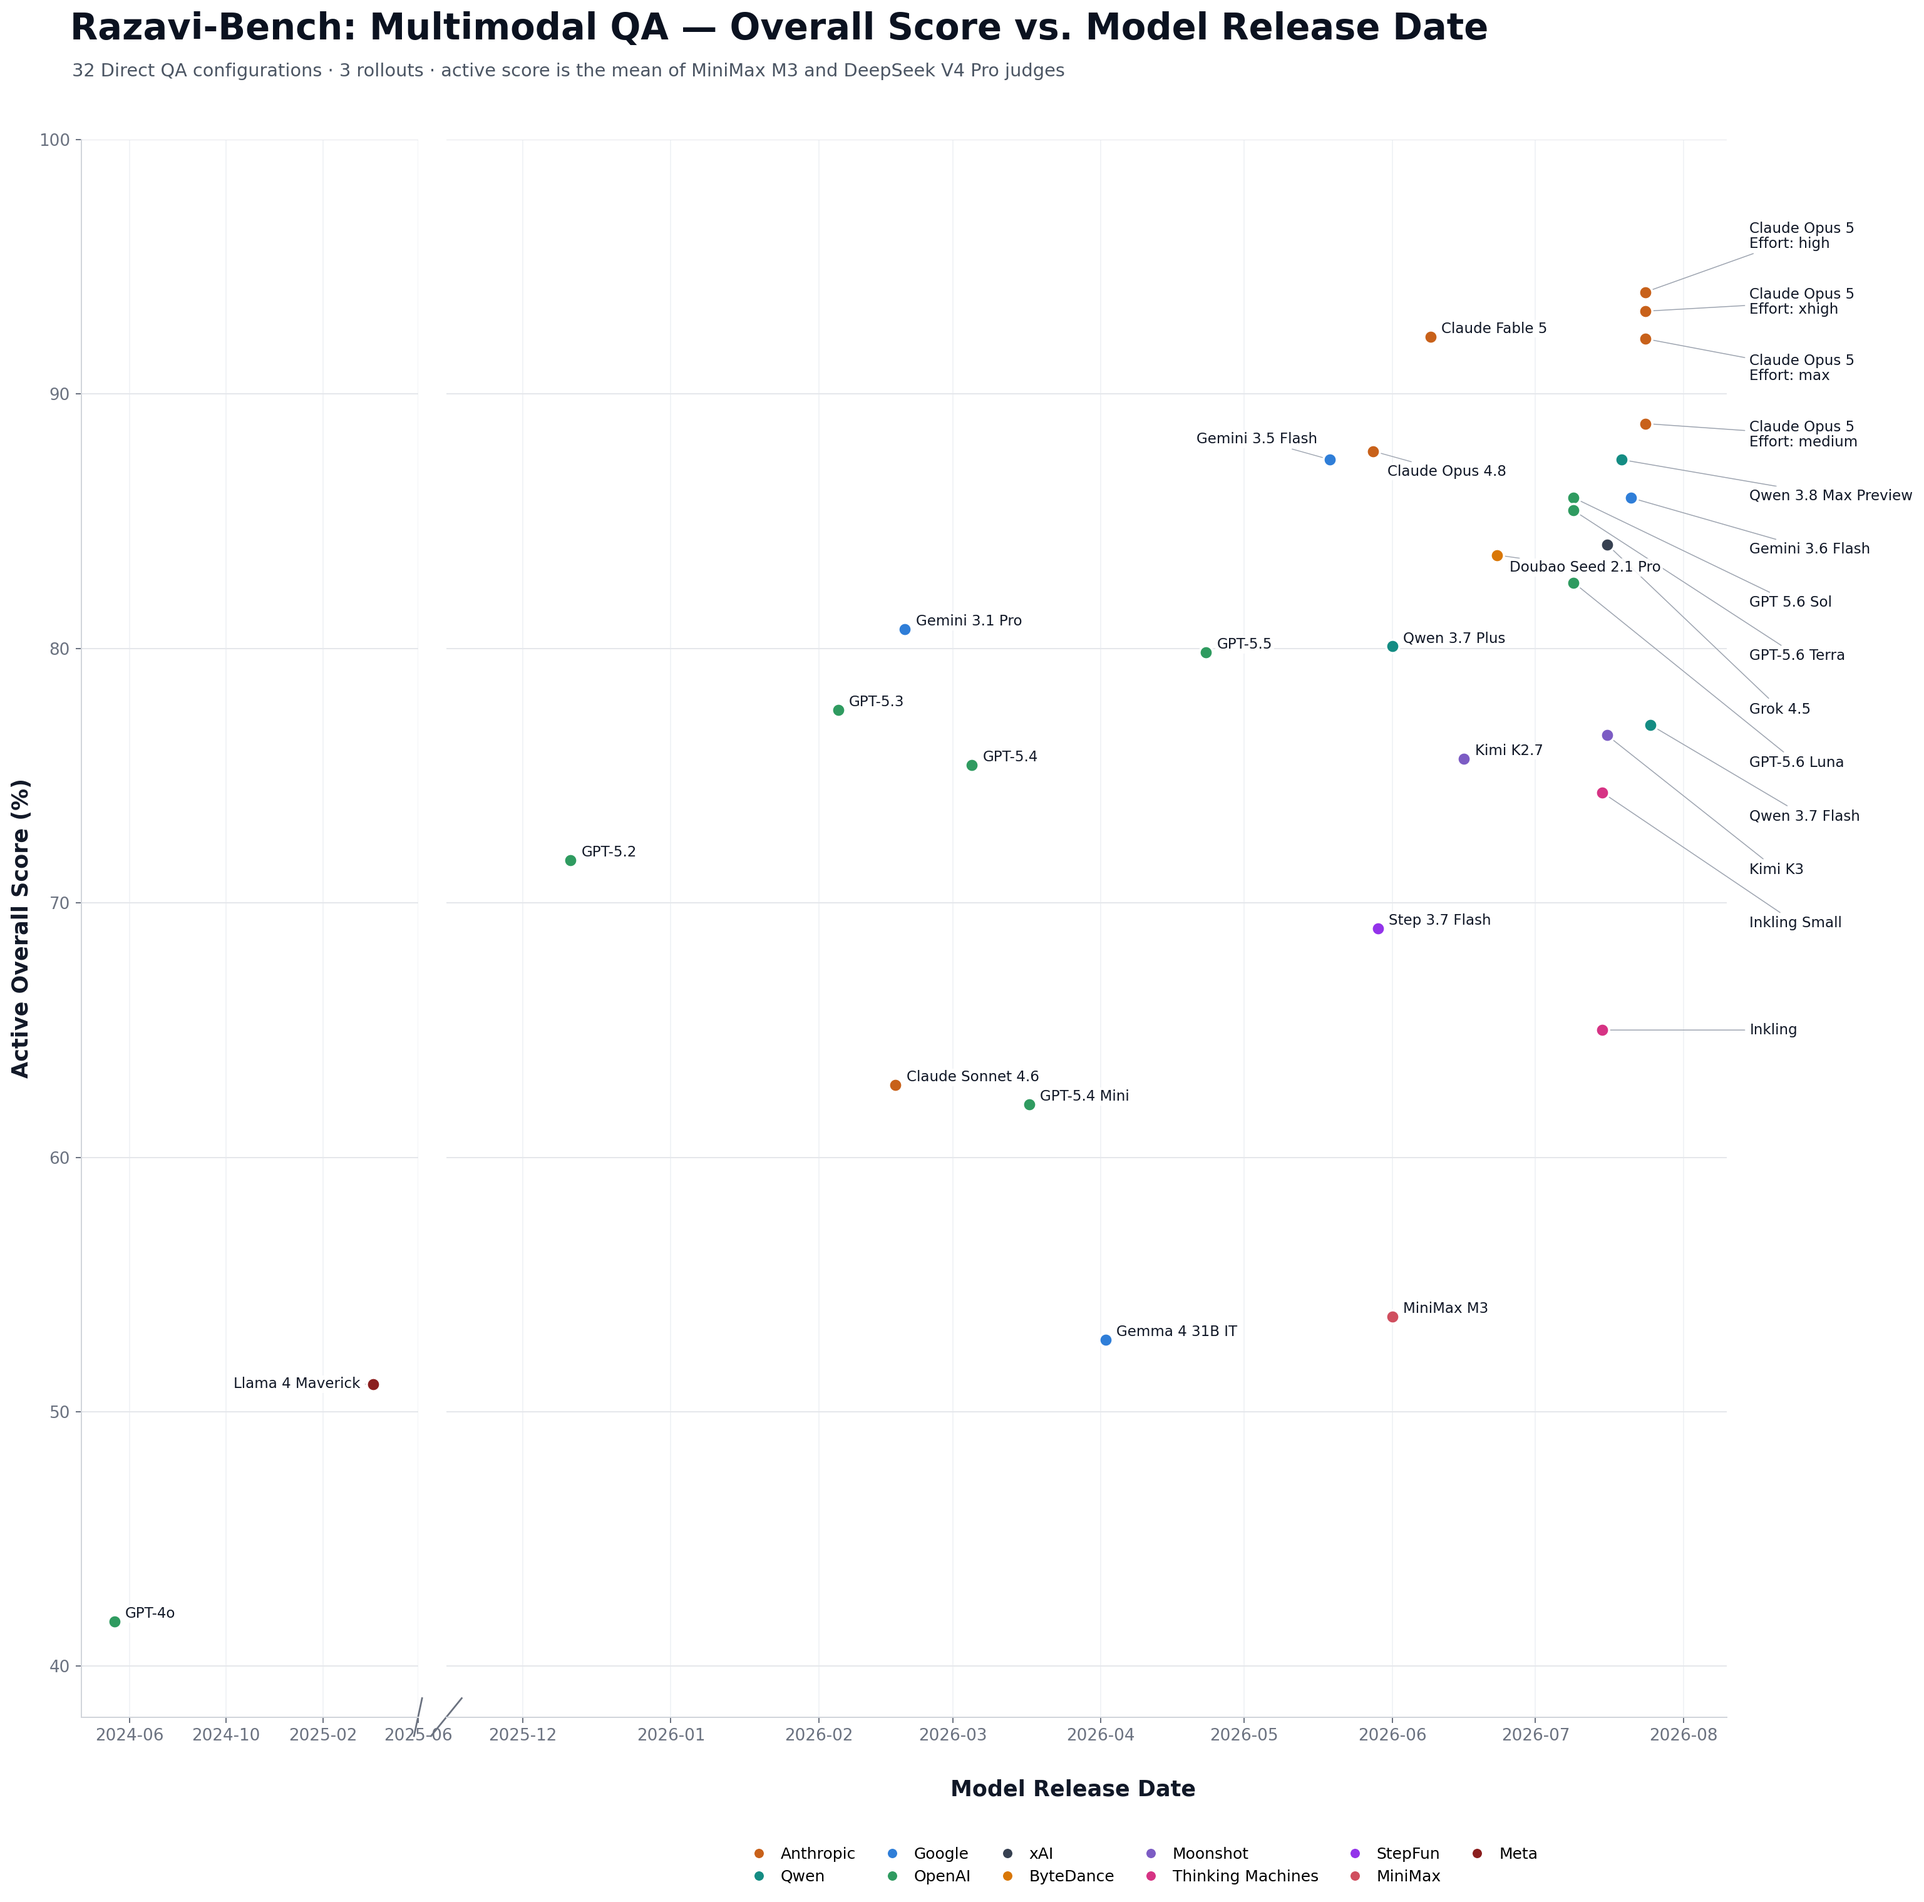
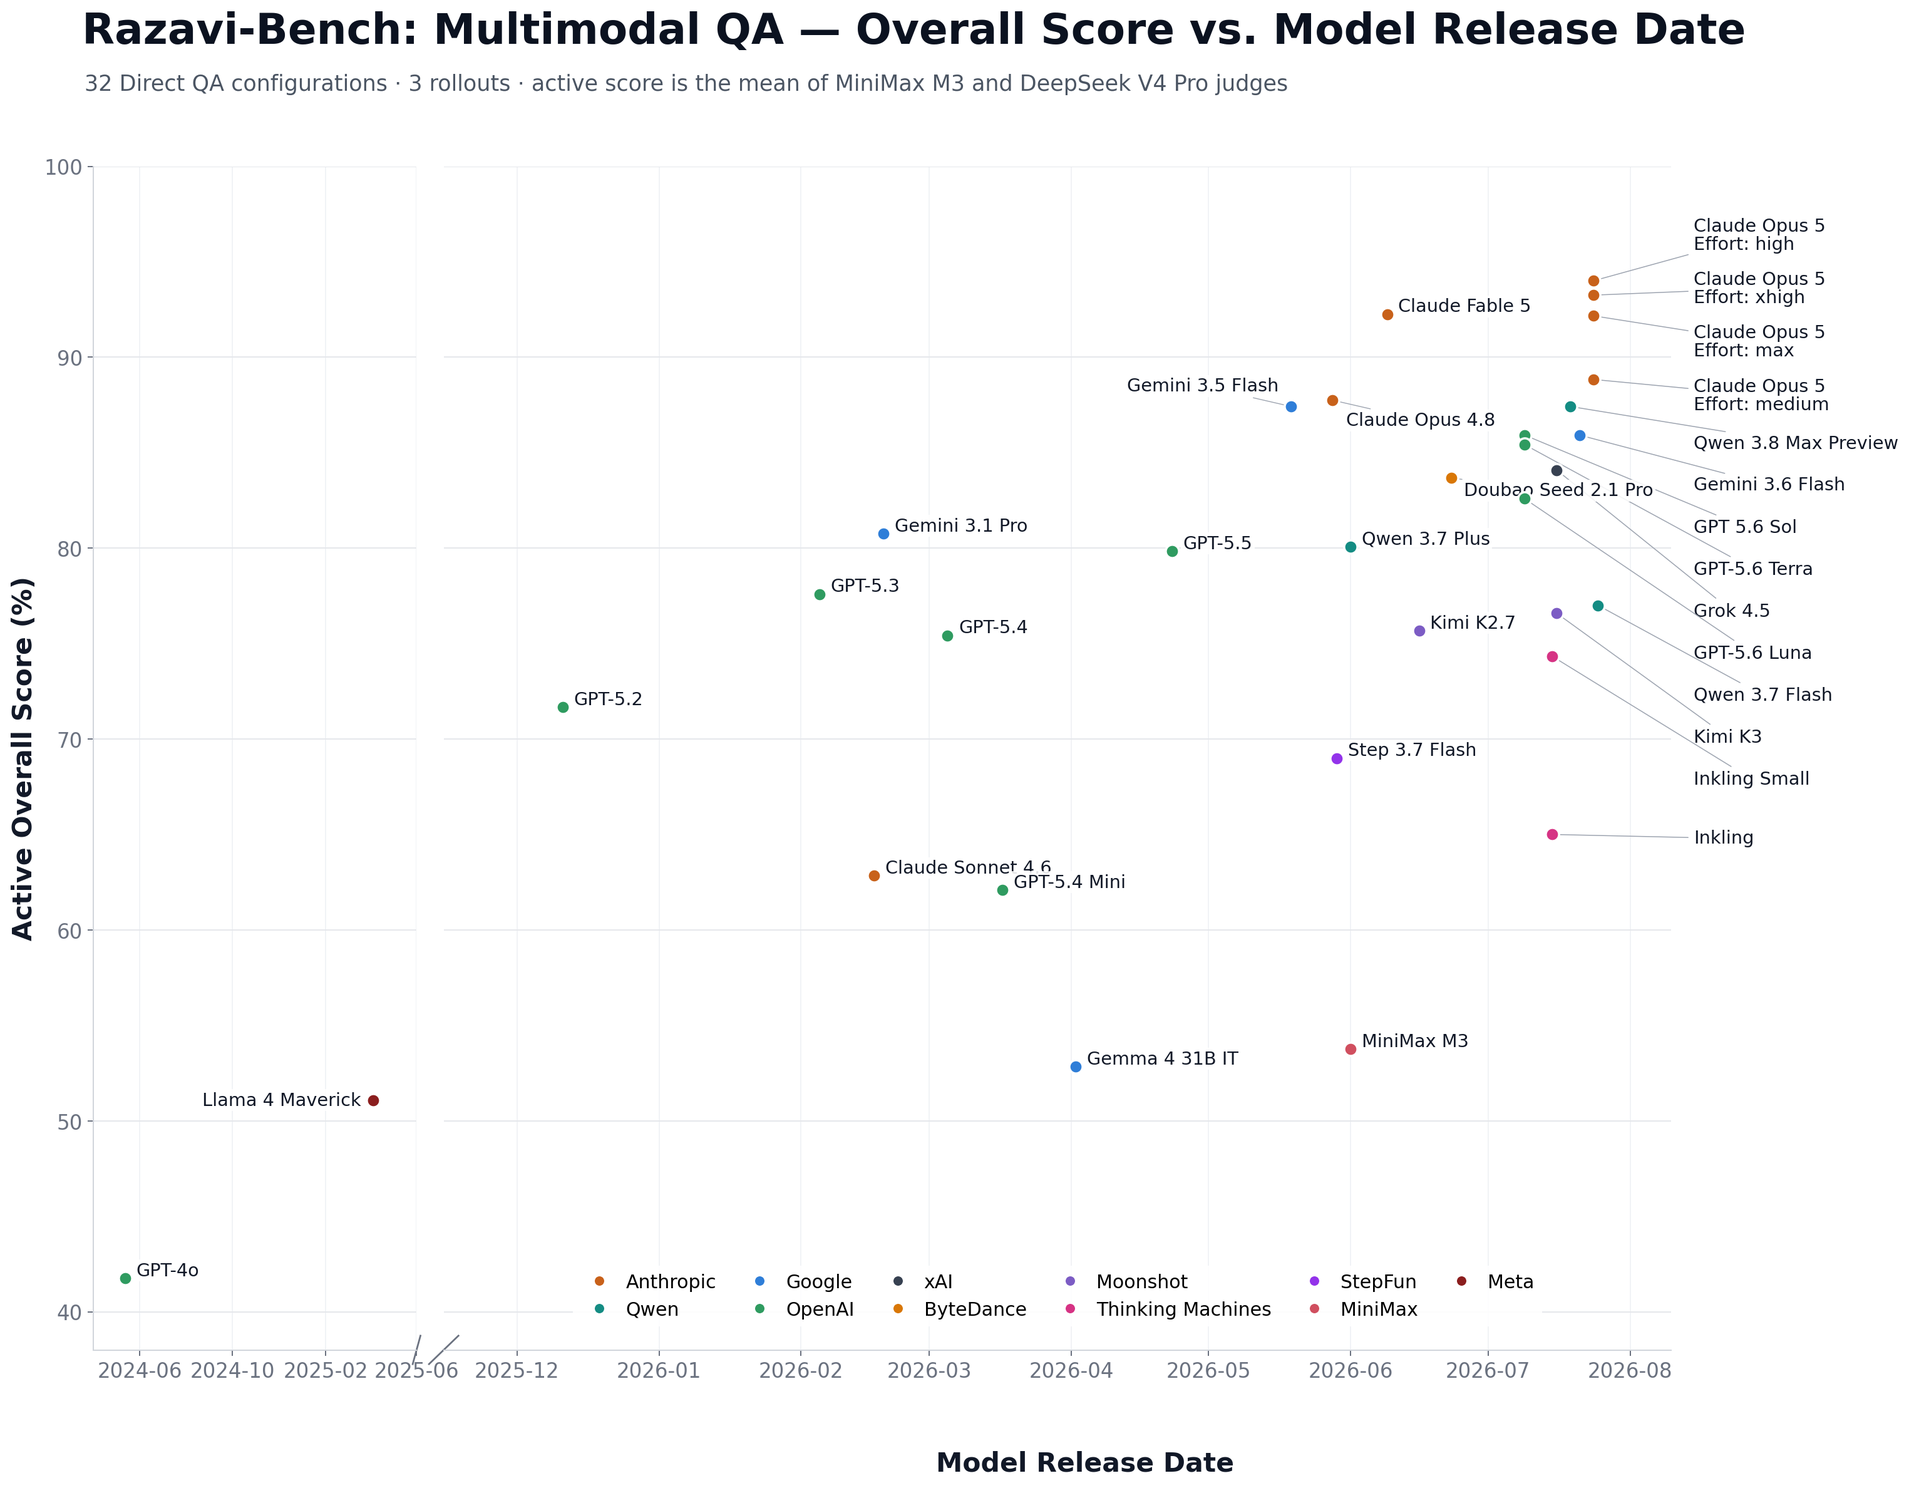
Refine release timeline proportions

diff --git a/tools/plot_model_release_timeline.py b/tools/plot_model_release_timeline.py
@@ -41,20 +41,20 @@ LABEL_OFFSETS = {
 }
 
 RECENT_LABEL_Y = {
-    "claude_opus_5_high": 96.2,
+    "claude_opus_5_high": 96.4,
     "claude_opus_5_xhigh": 93.6,
-    "claude_opus_5": 91.0,
-    "claude_opus_5_medium": 88.4,
-    "qwen_38": 86.0,
-    "gemini_36_flash": 83.9,
-    "gpt_56": 81.8,
-    "gpt_56_terra": 79.7,
-    "grok_45": 77.6,
-    "gpt_56_luna": 75.5,
-    "qwen_37_flash": 73.4,
-    "kimi_k3": 71.3,
-    "inkling_small": 69.2,
-    "inkling": 65.0,
+    "claude_opus_5": 90.8,
+    "claude_opus_5_medium": 88.0,
+    "qwen_38": 85.5,
+    "gemini_36_flash": 83.3,
+    "gpt_56": 81.1,
+    "gpt_56_terra": 78.9,
+    "grok_45": 76.7,
+    "gpt_56_luna": 74.5,
+    "qwen_37_flash": 72.3,
+    "kimi_k3": 70.1,
+    "inkling_small": 67.9,
+    "inkling": 64.8,
 }
 
 
@@ -118,7 +118,7 @@ def annotate(ax: plt.Axes, row: dict[str, object]) -> None:
             textcoords=ax.get_yaxis_transform(),
             ha="left",
             va="center",
-            fontsize=9.2,
+            fontsize=11.5,
             color="#111827",
             linespacing=1.05,
             arrowprops={"arrowstyle": "-", "color": "#9CA3AF", "lw": 0.6},
@@ -137,7 +137,7 @@ def annotate(ax: plt.Axes, row: dict[str, object]) -> None:
         textcoords="offset points",
         ha=horizontal_alignment,
         va="center",
-        fontsize=9.2,
+        fontsize=11.5,
         color="#111827",
         linespacing=1.05,
         arrowprops={"arrowstyle": "-", "color": "#9CA3AF", "lw": 0.55},
@@ -153,7 +153,7 @@ def style_axis(ax: plt.Axes) -> None:
     ax.set_yticks(range(40, 101, 10))
     ax.grid(axis="y", color="#E5E7EB", linewidth=0.8)
     ax.grid(axis="x", color="#F0F2F5", linewidth=0.7)
-    ax.tick_params(colors="#6B7280", labelsize=10.5)
+    ax.tick_params(colors="#6B7280", labelsize=13)
     ax.spines["top"].set_visible(False)
     ax.spines["right"].set_visible(False)
     ax.spines["left"].set_color("#D1D5DB")
@@ -171,7 +171,7 @@ def plot(rows: list[dict[str, object]], output: Path) -> None:
     figure, (old_ax, recent_ax) = plt.subplots(
         1,
         2,
-        figsize=(20, 17.5),
+        figsize=(20, 15),
         dpi=180,
         sharey=True,
         gridspec_kw={"width_ratios": [1.25, 4.75], "wspace": 0.035},
@@ -199,22 +199,22 @@ def plot(rows: list[dict[str, object]], output: Path) -> None:
         )
         annotate(axis, row)
 
-    old_ax.set_ylabel("Active Overall Score (%)", fontsize=14, fontweight="bold", color="#111827")
-    figure.supxlabel("Model Release Date", y=0.068, fontsize=14, fontweight="bold", color="#111827")
+    old_ax.set_ylabel("Active Overall Score (%)", fontsize=17, fontweight="bold", color="#111827")
+    figure.supxlabel("Model Release Date", y=0.105, fontsize=17, fontweight="bold", color="#111827")
     figure.suptitle(
         "Razavi-Bench: Multimodal QA — Overall Score vs. Model Release Date",
         x=0.055,
-        y=0.975,
+        y=0.972,
         ha="left",
-        fontsize=23,
+        fontsize=27,
         fontweight="bold",
         color="#0B1220",
     )
     figure.text(
         0.056,
-        0.942,
+        0.925,
         "32 Direct QA configurations · 3 rollouts · active score is the mean of MiniMax M3 and DeepSeek V4 Pro judges",
-        fontsize=11.5,
+        fontsize=14,
         color="#4B5563",
     )
 
@@ -234,19 +234,22 @@ def plot(rows: list[dict[str, object]], output: Path) -> None:
             Line2D([0], [0], marker="o", color="none", markerfacecolor=color,
                    markeredgecolor="white", markersize=7, label=legend_name)
         )
-    figure.legend(
+    recent_ax.legend(
         handles=providers,
         loc="lower center",
-        bbox_to_anchor=(0.53, 0.018),
+        bbox_to_anchor=(0.50, 0.012),
         ncol=6,
-        frameon=False,
-        fontsize=10,
+        frameon=True,
+        facecolor="white",
+        edgecolor="none",
+        framealpha=0.90,
+        fontsize=12,
         handletextpad=0.4,
         columnspacing=1.3,
     )
 
     output.parent.mkdir(parents=True, exist_ok=True)
-    figure.subplots_adjust(left=0.06, right=0.79, top=0.91, bottom=0.11)
+    figure.subplots_adjust(left=0.06, right=0.76, top=0.88, bottom=0.18)
     figure.savefig(output, bbox_inches="tight", facecolor="white")
     plt.close(figure)
 

diff --git a/README.md b/README.md
@@ -240,5 +240,5 @@ marks preview or first-public-availability dates in the
 [model release-date table](docs/data/direct_qa/model_release_dates.csv).
 
 <p align="center">
-  <img src="docs/assets/direct_qa_score_vs_release_date.png?v=20260802-square-plot" alt="Razavi-Bench score versus model release date" title="Razavi-Bench score versus model release date" width="96%"/>
+  <img src="docs/assets/direct_qa_score_vs_release_date.png?v=20260802-four-by-three" alt="Razavi-Bench score versus model release date" title="Razavi-Bench score versus model release date" width="96%"/>
 </p>
